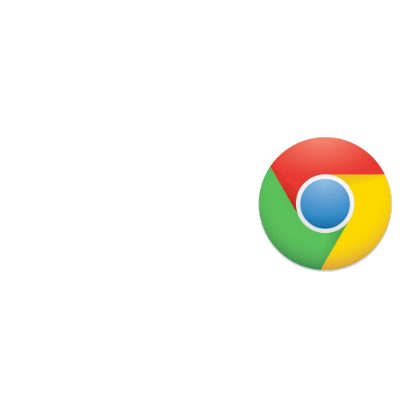
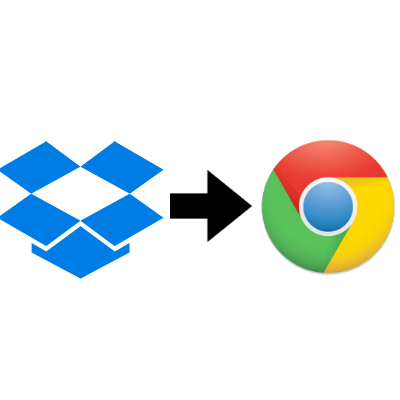
fixing frontend

diff --git a/index.html b/index.html
@@ -37,11 +37,11 @@
 
       <div class="featurette-holder" id="desc-box">
         <div class="featurette">
-          <img class="featurette-image img-circle img-responsive pull-right" src="http://www.techbarber.com/wp-content/uploads/2013/01/Dropbox-Logo.png">
+          <img class="featurette-image img-circle img-responsive pull-right" src="images/db_to_chrome.jpg">
           <h2 class="featurette-heading">Serving Your Webpage </br><span class="text-muted" id="desc">Without The Hassle Of Managing Servers</span></h2>
           <p class="lead">Deploying your website has never been easier.  With LaunchDrop, just place the files for your site in your Dropbox, we tell which folders are valid websites, and then we serve the ones you want.</p></br>
         </div> 
-        <button style="margin-top: 95px;" class="btn btn-primary launch">Launch</button>
+        <button style="margin-top: 45px;" class="btn btn-primary launch">Launch</button>
       </div>
 
     </div>

diff --git a/css/custom.css b/css/custom.css
@@ -107,9 +107,11 @@ body > .container{
 
 .featurette-image{
 	height: 50%;
+	/*width: 450px;*/
 	float: center;
 	margin: 0 auto;
 	display: block;
+
 }
 
 #desc-box{
